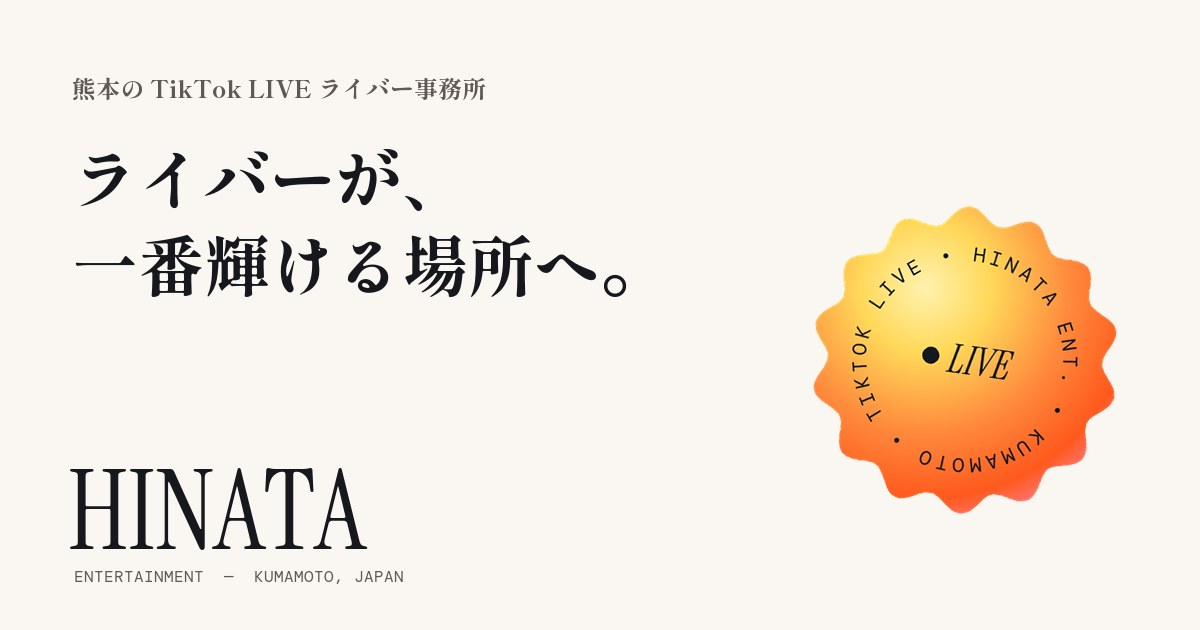
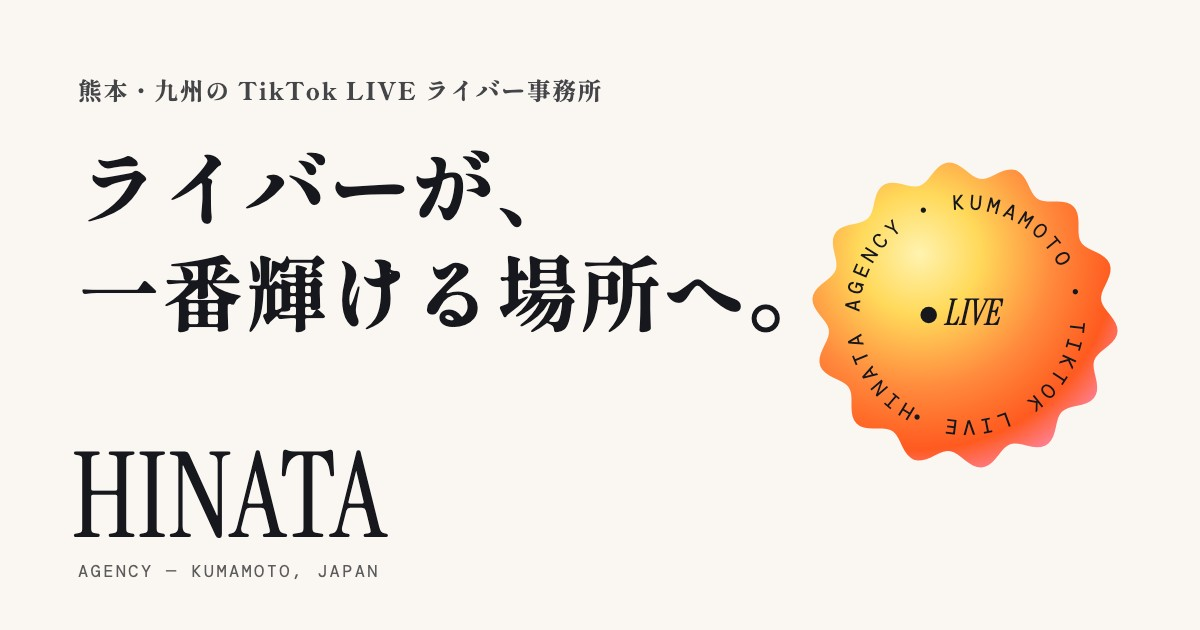
事務所名を Hinata Agency に、ドメインを hinata-agency.co.jp に変更する
- サイト内の名前・タイトル・説明文・構造化データ・alt を「Hinata Agency（ひなたエージェンシー）」に
- ロゴの下の文字を AGENCY、ステッカーの文字を HINATA AGENCY に（文字数が変わっても円周に収まるよう字間を自動調整）
- OGP画像を新しい名前で作り直す
- 公開URL・お問い合わせのメールの既定値を hinata-agency.co.jp に

diff --git a/src/content/site.ts b/src/content/site.ts
@@ -9,12 +9,12 @@
  */
 
 export const site = {
-  name: "HINATA Entertainment",
+  name: "Hinata Agency",
   shortName: "HINATA",
   /** 公開するURL。未設定なら、Vercel で公開したときのURL（○○.vercel.app）を自動で使う */
   url:
     process.env.NEXT_PUBLIC_SITE_URL ??
-    (process.env.VERCEL_PROJECT_PRODUCTION_URL ? `https://${process.env.VERCEL_PROJECT_PRODUCTION_URL}` : "https://hinata-ent.jp"),
+    (process.env.VERCEL_PROJECT_PRODUCTION_URL ? `https://${process.env.VERCEL_PROJECT_PRODUCTION_URL}` : "https://hinata-agency.co.jp"),
   /**
    * 検索エンジンに載せるかどうか。本番公開のときに、環境変数 NEXT_PUBLIC_ALLOW_INDEX=1 を設定してください。
    * 未設定のあいだ（デモ・確認用）は、Google などの検索結果に出ないようにしています。
@@ -35,10 +35,10 @@ export const site = {
   },
 
   seo: {
-    title: "熊本・福岡・九州のライバー事務所｜TikTok LIVE特化のHINATA Entertainment",
-    titleTemplate: "%s｜HINATA Entertainment",
+    title: "熊本・福岡・九州のライバー事務所｜TikTok LIVE特化のHinata Agency",
+    titleTemplate: "%s｜Hinata Agency",
     description:
-      "熊本・福岡・九州のライバー事務所「HINATA Entertainment」。TikTok LIVEを中心に、ギフト配信・ショップ配信のライバーを募集しています。未経験OK、スマホ1台から始められて、専属マネージャーが配信をサポートします。熊本を拠点に、九州から全国へ。",
+      "熊本・福岡・九州のライバー事務所「Hinata Agency」。TikTok LIVEを中心に、ギフト配信・ショップ配信のライバーを募集しています。未経験OK、スマホ1台から始められて、専属マネージャーが配信をサポートします。熊本を拠点に、九州から全国へ。",
     keywords: [
       "ライバー事務所 熊本",
       "ライバー事務所 福岡",
@@ -49,7 +49,8 @@ export const site = {
       "TikTok LIVE ライバー事務所",
       "TikTok ライバー 募集",
       "ショップ配信 ライバー",
-      "HINATA Entertainment",
+      "Hinata Agency",
+      "ひなたエージェンシー",
     ],
   },
 
@@ -274,7 +275,7 @@ export const faq = [
 ];
 
 export const company: { label: string; value: string; link?: { label: string; href: string } }[] = [
-  { label: "事務所名", value: "HINATA Entertainment" },
+  { label: "事務所名", value: "Hinata Agency（ひなたエージェンシー）" },
   {
     label: "所在地",
     value: `〒${site.address.postalCode}\n${site.address.region}${site.address.locality}${site.address.street}\n${site.address.building}`,

diff --git a/src/components/sections/Livers.tsx b/src/components/sections/Livers.tsx
@@ -26,7 +26,7 @@ export function Livers() {
               <div data-reveal="fade" style={{ "--delay": `${(i % 3) * 0.1}s` } as CSSProperties}>
                 <div className="arch relative" data-shine>
                   <div className="photo film arch aspect-[3/4]">
-                    <Image src={l.image} alt={`HINATA Entertainment 所属ライバー ${l.nameJa}（${l.nameEn}）`} fill sizes="(min-width: 1024px) 30vw, 46vw" className="object-cover" />
+                    <Image src={l.image} alt={`Hinata Agency 所属ライバー ${l.nameJa}（${l.nameEn}）`} fill sizes="(min-width: 1024px) 30vw, 46vw" className="object-cover" />
                   </div>
                 </div>
                 <p className="cap mt-4 flex justify-between">

diff --git a/src/app/api/contact/route.ts b/src/app/api/contact/route.ts
@@ -74,7 +74,7 @@ export async function POST(request: Request) {
     method: "POST",
     headers: { Authorization: `Bearer ${apiKey}`, "Content-Type": "application/json" },
     body: JSON.stringify({
-      from: process.env.CONTACT_FROM_EMAIL || "HINATA Entertainment <onboarding@resend.dev>",
+      from: process.env.CONTACT_FROM_EMAIL || "Hinata Agency <onboarding@resend.dev>",
       to: to.split(",").map((s) => s.trim()),
       reply_to: body.email,
       subject: `${title}${body.company ? `${body.company} ` : ""}${body.name} 様`,

diff --git a/src/app/layout.tsx b/src/app/layout.tsx
@@ -60,7 +60,7 @@ const jsonLd = {
       "@type": ["Organization", "LocalBusiness"],
       "@id": `${site.url}/#organization`,
       name: site.name,
-      alternateName: ["HINATA", "ひなたエンターテインメント", "HINATA Entertainment ライバー事務所"],
+      alternateName: ["HINATA", "ひなたエージェンシー", "Hinata Agency ライバー事務所"],
       url: site.url,
       logo: `${site.url}/icon.svg`,
       image: `${site.url}/opengraph-image.jpg`,

diff --git a/src/components/layout/Header.tsx b/src/components/layout/Header.tsx
@@ -79,7 +79,7 @@ export function Header() {
               <span className="font-serif text-[1.35rem] leading-none tracking-[0.18em] text-ink md:text-[1.6rem]">HINATA</span>
             </span>
             <span className="mt-1.5 block pl-6 font-mono text-[0.5rem] leading-none tracking-[0.3em] text-ink md:pl-[1.65rem] md:text-[0.56rem]">
-              ENTERTAINMENT
+              AGENCY
             </span>
           </a>
 

diff --git a/src/components/sections/Hero.tsx b/src/components/sections/Hero.tsx
@@ -18,7 +18,7 @@ function PhotoColumn({ images, direction, preloadFirst }: { images: string[]; di
         >
           <Image
             src={src}
-            alt={i < images.length ? "HINATA Entertainment のライバー" : ""}
+            alt={i < images.length ? "Hinata Agency のライバー" : ""}
             fill
             sizes="(min-width: 1024px) 23vw, 50vw"
             preload={preloadFirst && i === 0}

diff --git a/README.md b/README.md
@@ -1,6 +1,6 @@
-# HINATA Entertainment 公式サイト
+# Hinata Agency 公式サイト
 
-熊本のTikTok LIVEライバー事務所「HINATA Entertainment」の公式サイトです。
+熊本のTikTok LIVEライバー事務所「Hinata Agency」の公式サイトです。
 Next.js 16（App Router）＋ TypeScript ＋ Tailwind CSS v4 ＋ GSAP（ScrollTrigger）＋ Lenis で作っています。
 
 ---
@@ -92,7 +92,7 @@ npm run deploy:xserver                # 書き出してアップロード
 ```bash
 cd ~/Desktop/hinata-entertainment
 git add -A
-git commit -m "HINATA Entertainment 公式サイト"
+git commit -m "Hinata Agency 公式サイト"
 gh repo create hinata-entertainment --private --source=. --push
 ```
 （`gh` を使わない場合は、GitHub上で空のリポジトリを作り、表示される `git remote add origin ...` と `git push -u origin main` を実行します）
@@ -108,11 +108,11 @@ gh repo create hinata-entertainment --private --source=. --push
 
 | 名前 | 内容 |
 |---|---|
-| `NEXT_PUBLIC_SITE_URL` | 公開するURL（例：`https://hinata-ent.jp`）。OGP、サイトマップ、canonical に使われます |
+| `NEXT_PUBLIC_SITE_URL` | 公開するURL（例：`https://hinata-agency.co.jp`）。OGP、サイトマップ、canonical に使われます |
 | `NEXT_PUBLIC_ALLOW_INDEX` | **本番公開のときに `1` にする。** 未設定のあいだは Google などの検索結果に出ません（デモ・確認用） |
 | `RESEND_API_KEY` | フォームの内容をメールで受け取るための、[Resend](https://resend.com) の APIキー |
 | `CONTACT_TO_EMAIL` | 問い合わせを受け取るメールアドレス（カンマ区切りで複数指定できます） |
-| `CONTACT_FROM_EMAIL` | 送信元のアドレス（Resend でドメイン認証したもの。例：`HINATA <info@hinata-ent.jp>`） |
+| `CONTACT_FROM_EMAIL` | 送信元のアドレス（Resend でドメイン認証したもの。例：`Hinata Agency <info@hinata-agency.co.jp>`） |
 
 - 設定を変えたら、**Deployments → Redeploy** で反映します。
 - メールの設定がない間は、フォームの送信内容は Vercel のログ（Project → Logs）に出るだけで、メールは届きません。

diff --git a/public/images/CREDITS.md b/public/images/CREDITS.md
@@ -15,7 +15,7 @@ About の「02」に使っています。いただいた写真（`pic/熊本城.
 
 ここにある写真は、デザイン確認用に [Unsplash](https://unsplash.com) から取得した**仮の写真**です（Unsplash License：商用利用可・クレジット表記は不要）。
 
-**写っている方は、HINATA Entertainment とは関係のない方々です。**
+**写っている方は、Hinata Agency とは関係のない方々です。**
 「所属ライバー」として公開すると、ご本人が所属・推薦しているように見えてしまうため、**サイトを公開する前に、必ず実際のライバーの写真に差し替えてください。**
 
 | ファイル | 元画像 | 内容 |
